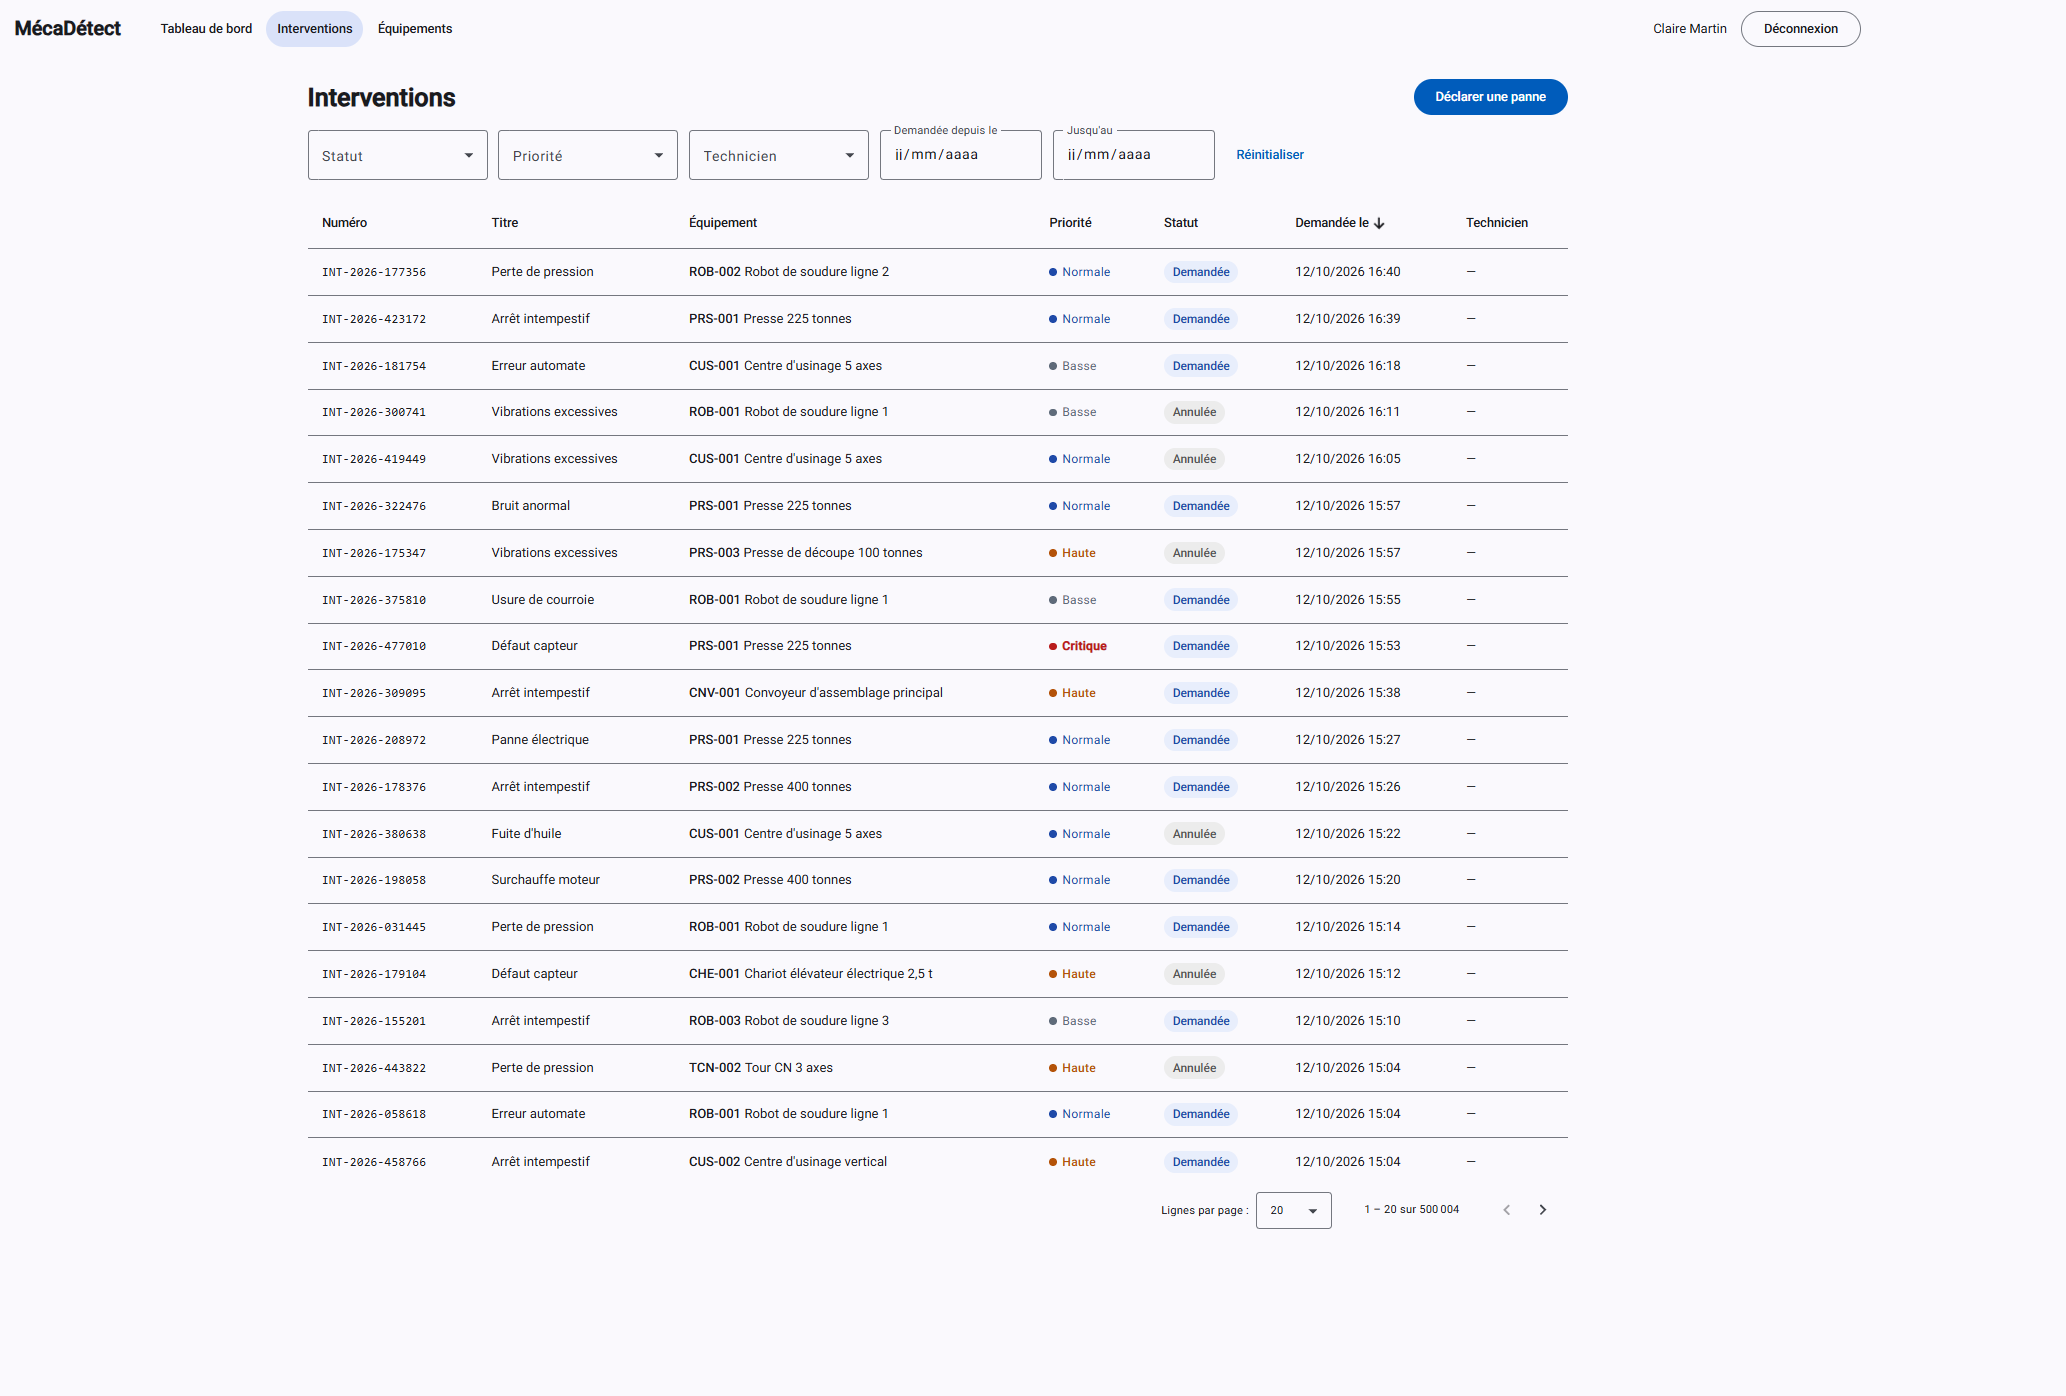
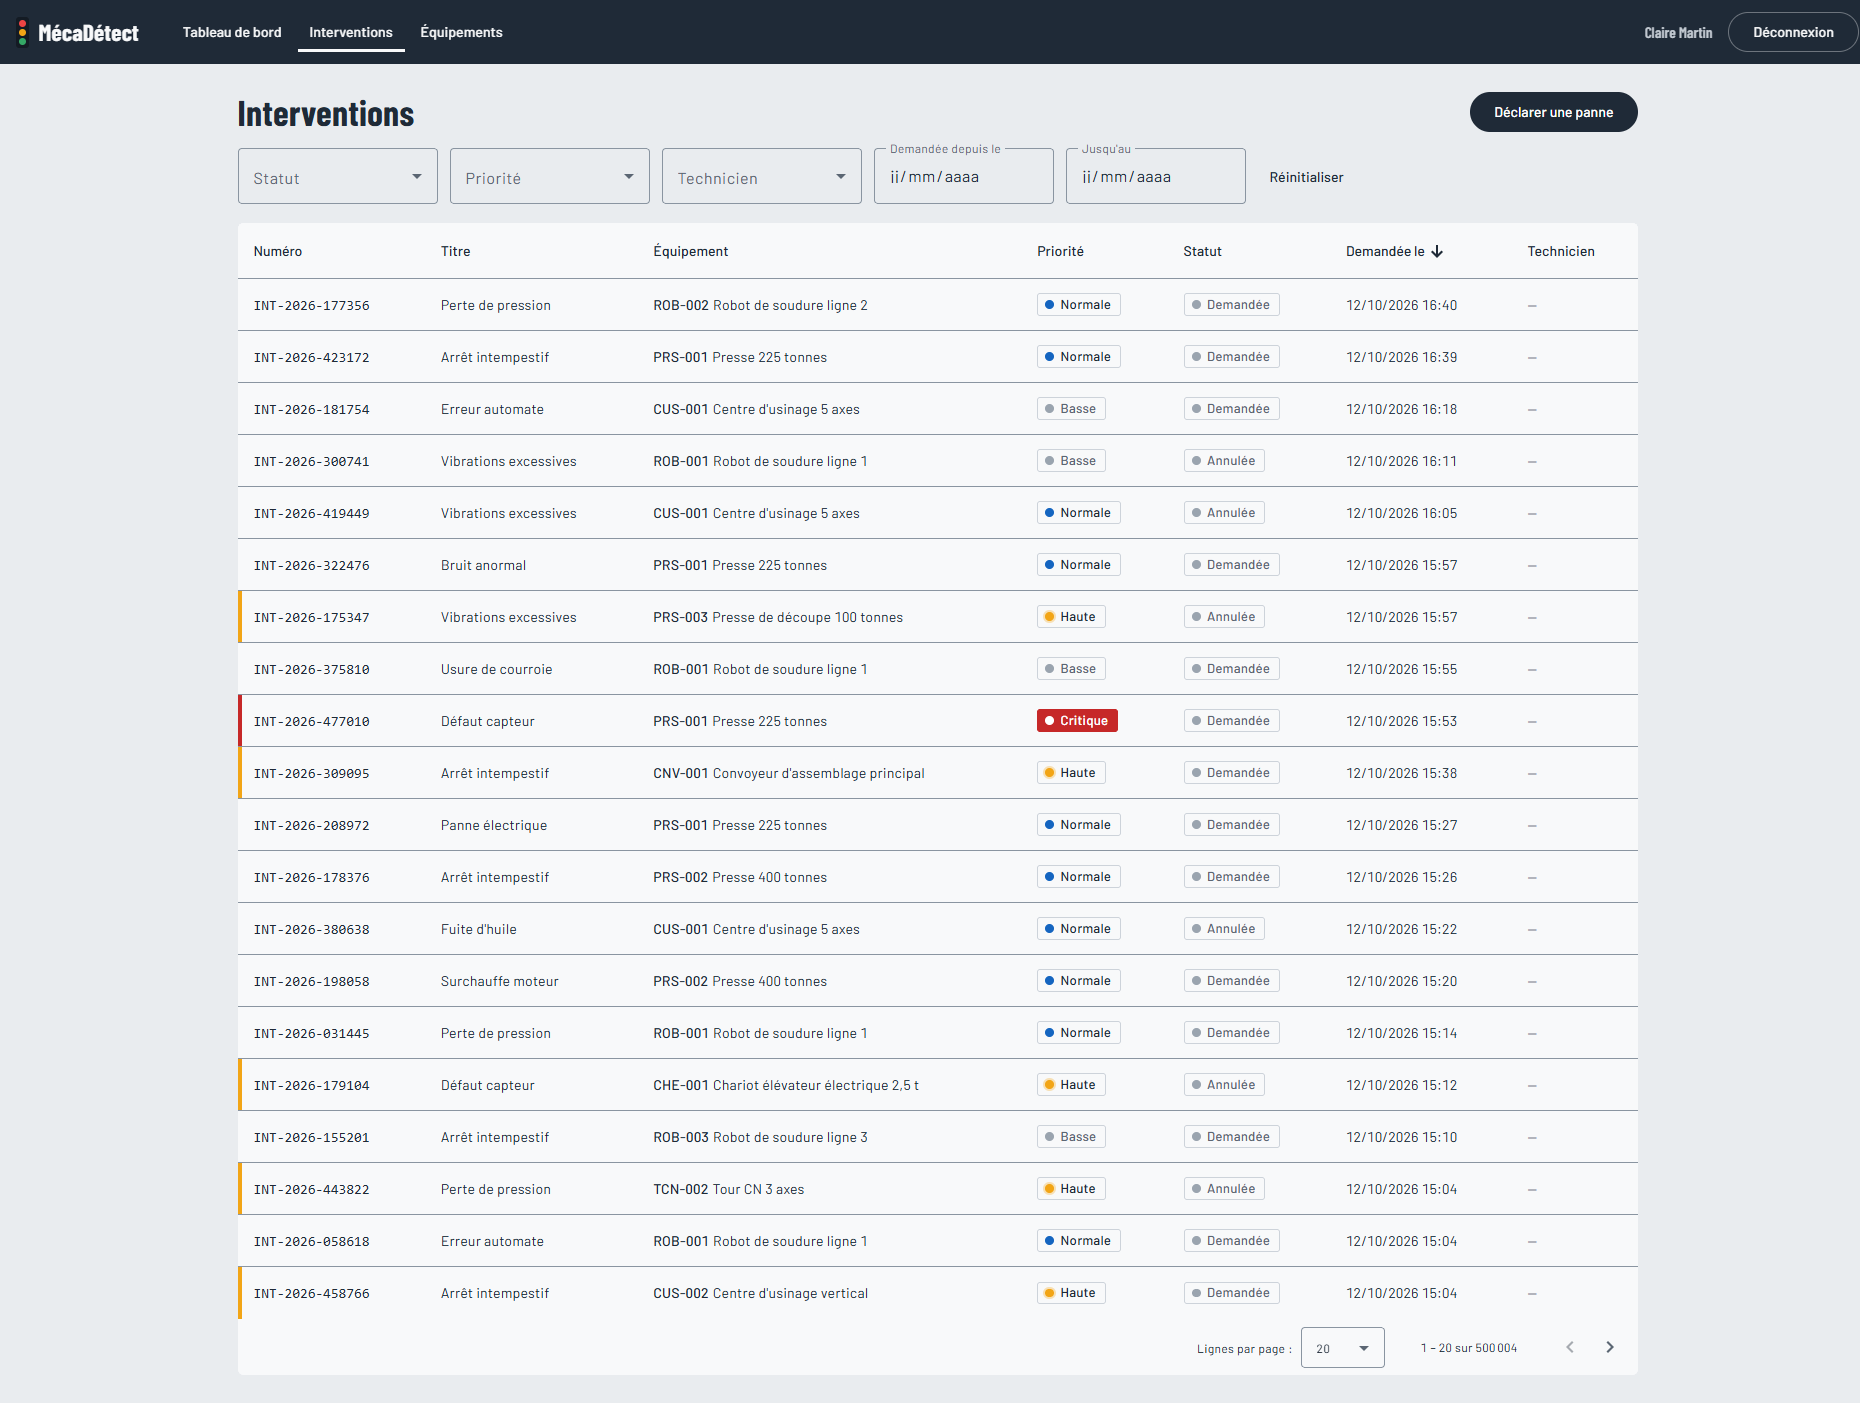
docs: README final - démo en ligne, architecture de production, qualité, sécurité et interface Andon

diff --git a/README.md b/README.md
@@ -56,7 +56,7 @@ Application de suivi de maintenance industrielle : déclaration des pannes, plan
 ### Produit
 
 - **Tableau de bord** du responsable : interventions ouvertes par priorité, équipements en panne, temps moyen de réparation, charge des techniciens, et **export CSV** des interventions d'une période.
-- **Interface pensée pour le terrain** : la page « Mes interventions » du technicien fonctionne sur tablette et sur téléphone, et le démarrage comme la clôture se font en 2 clics. Sur petit écran, la navigation se replie dans un menu et les tableaux n'affichent que les colonnes utiles.
+- **Interface « Tableau Andon »** : comme sur un tableau lumineux d'atelier, la couleur ne sert qu'à signaler (rouge = action requise, ambre = à surveiller, vert = normal), avec le même code partout ; affichage en fiches sur téléphone, transitions et animations discrètes, coupées si l'utilisateur demande moins de mouvement.
 
 ### Production
 
@@ -169,7 +169,7 @@ L'environnement de production se décrit dans [`compose.prod.yaml`](compose.prod
 cd backend
 mvn verify
 
-# Front-end : 94 tests
+# Front-end : 100 tests
 cd frontend
 npx ng test --watch=false
 ```
